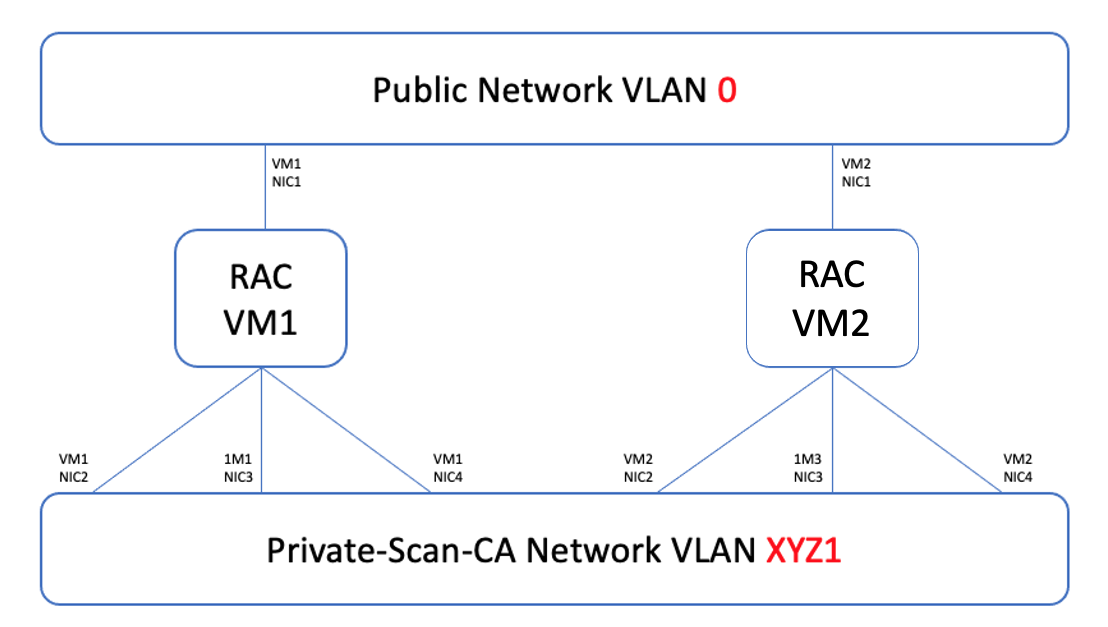
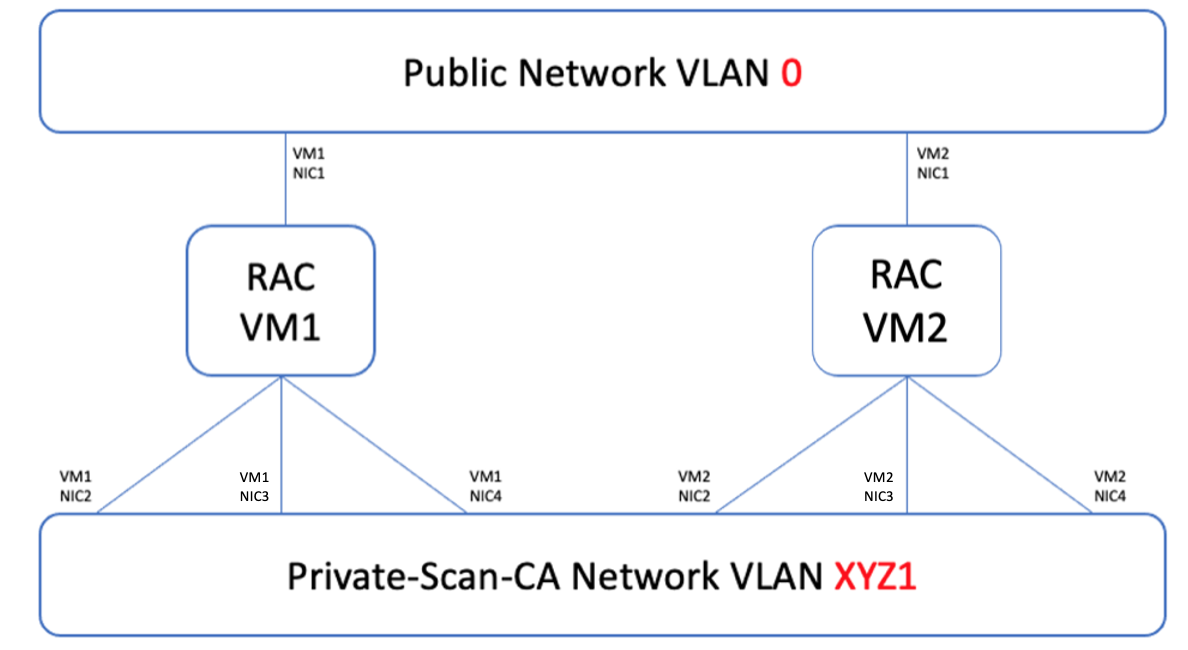
rac imgae update

diff --git a/deploy_oracle_rac_era/deploy_oracle_rac_era.rst b/deploy_oracle_rac_era/deploy_oracle_rac_era.rst
@@ -91,11 +91,11 @@ We will need the following number of IPs for a two node Oracle RAC Clusters
     - No. of RAC Nodes
     - No. of IPs per Node
     - Total IPs required
-  * - Public
+  * - Private
     - 2
     - 1
     - 2
-  * - Private + Scan + CA
+  * - Public + Scan + CA
     - 2
     - 3
     - 6
